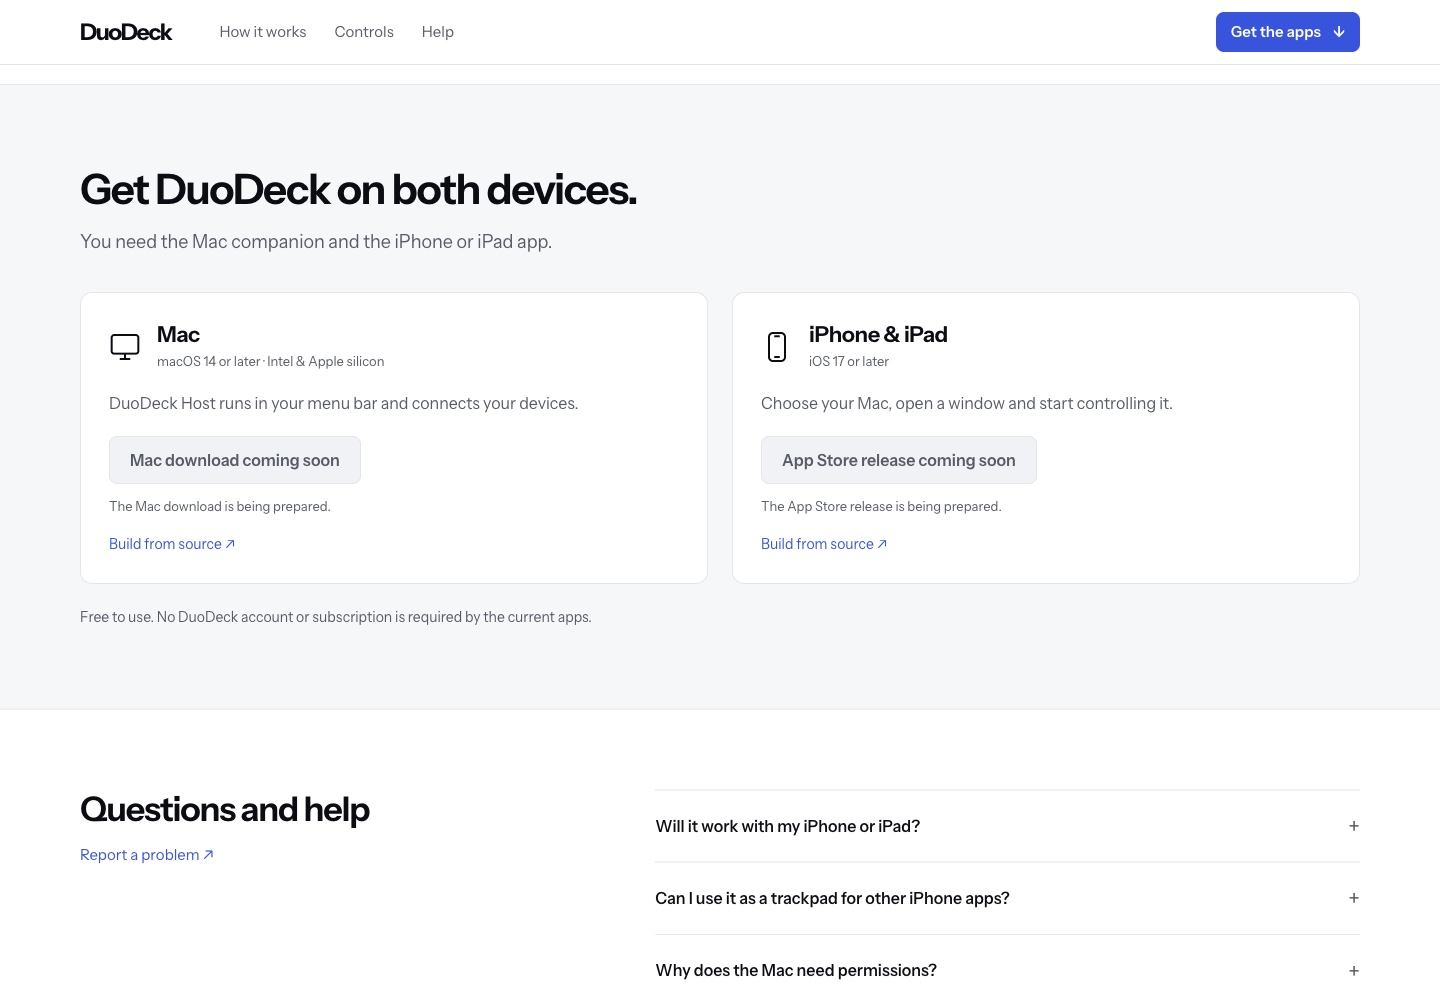
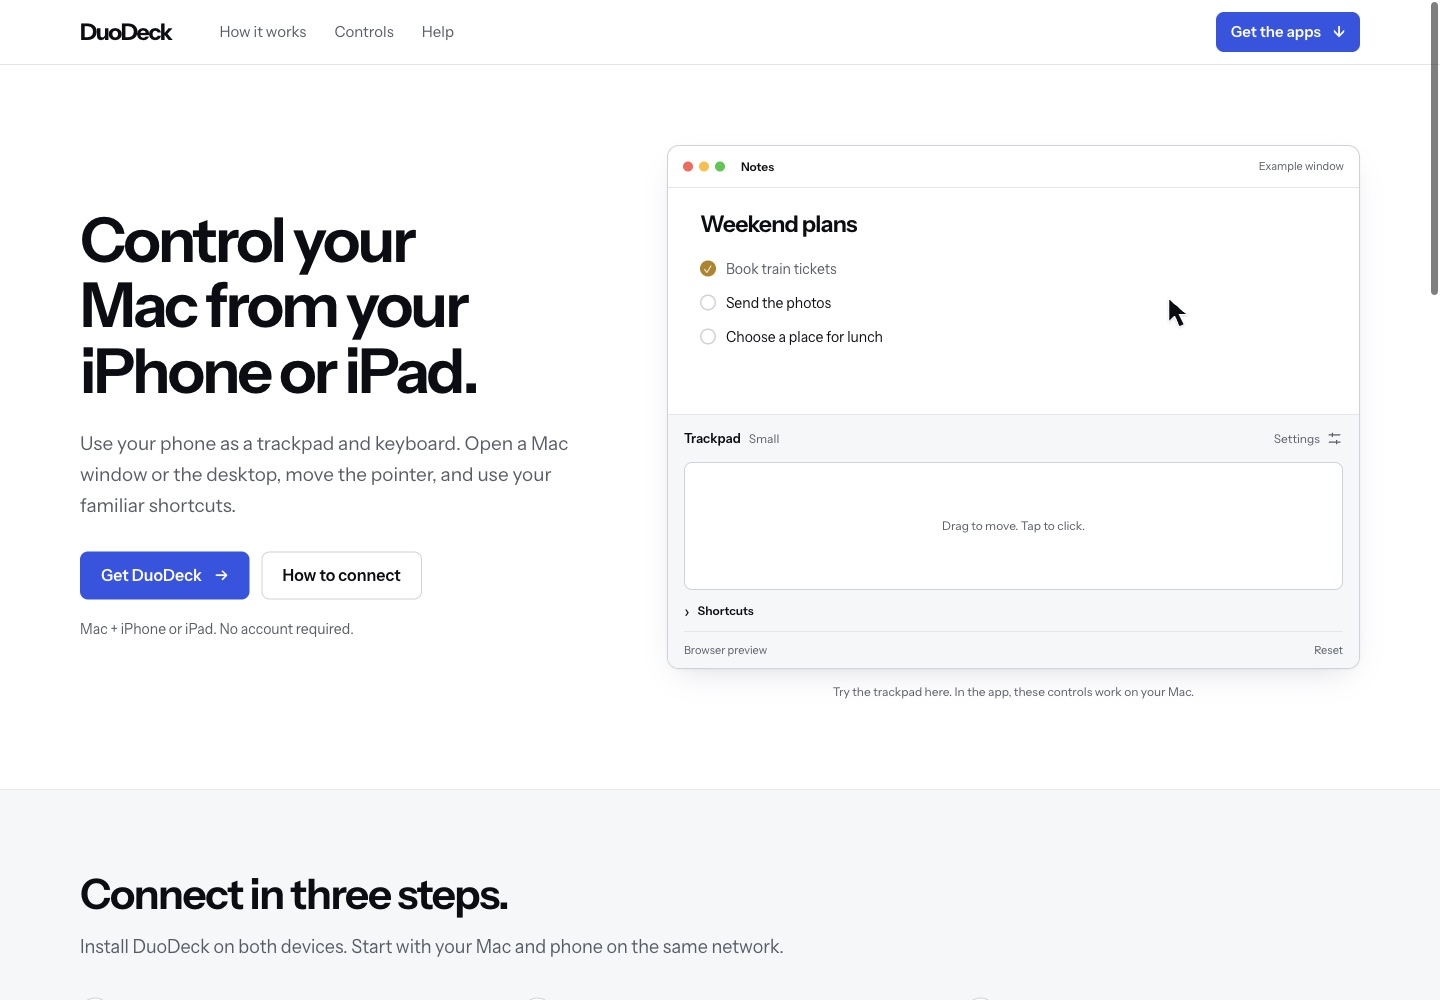
Record production redesign and verified native release candidates

diff --git a/docs/releases/1.1.0-verification.md b/docs/releases/1.1.0-verification.md
@@ -18,7 +18,7 @@ The design direction and reusable execution prompt are in [PRODUCT_BRIEF.md](../
 
 | Area | Evidence | Outcome |
 | --- | --- | --- |
-| Website | Existing Mac4 Chrome, actual rendered implementation | Desktop, 320px and 390px phone, 800px tablet and dark appearance inspected; no horizontal overflow |
+| Website | HTTPS health, actual production Chrome rendering and interaction | Redesign deployed at `2aff42d81bfe664d7613c97a338da487734db3b5`; desktop/mobile/dark production readback passes; 320/390/800px layouts inspected without horizontal overflow |
 | Browser controls | Actual pointer and keyboard input | Drag/tap checklist interaction, keyboard pointer movement, size/speed persistence, shortcut groups, reset and dialog focus restoration pass |
 | Web checks | Root `npm run check` | 10 passed, 0 failed |
 | iOS checks | 11 affected existing pure suites and native UI navigation checks | Phone, ordinary iPad, large text, keyboard restoration and Small/Full sizing pass |
@@ -26,8 +26,10 @@ The design direction and reusable execution prompt are in [PRODUCT_BRIEF.md](../
 | Mac UI | Four groups, legacy routes, 14 light/dark window fit reports and final glyph render | Routes and content fit; final product compilation passes |
[1 lines of base64/hex data omitted]
 | iOS release archive/export | Xcode archive, signed export and binary/plist inspection | 1.1.0 build 2026110903; corrected branded permission and locked-session copy confirmed |
-| iOS store copy | Helm provider update readback | Clearer subtitle, description, keywords and promotional text saved to the existing en-US listing |
-| Store screenshots | Six normal-launch PNGs with exact provenance | Macs, Add Mac and setup help on iPhone and iPad; no debug fixture or simulated live stream |
+| iOS store copy | Helm update followed by independent native API readback | Subtitle, description, keywords, promotional text and review instructions match the canonical text exactly |
+| Store screenshots | Six normal-launch PNGs with exact provenance | Macs, Add Mac and setup help on iPhone and iPad; replacement upload is processing; no debug fixture or simulated live stream |
+| Mac release package | Developer ID signature, universal slices, version/SDK/icon inspection | 1.1.0 (2026110902), arm64 + x86_64, SDK27.0, minimum macOS14, Assets.car + ICNS |
+| Mac installation | Installed bundle version and running process | Final redesigned build installed and launched in `~/Applications/DuoDeck Host.app` |
 
[1 lines of base64/hex data omitted]
 
@@ -35,14 +37,16 @@ The exported build03 IPA SHA-256 is `032d9d6cb4b17ec3628c65cbe22d44b894254ce1912
 
 The second redesign supersedes the earlier iOS build 2026110902 and Mac build 2026110901. Those earlier candidates and their old notarization job are not proof of the new binary.
 
-The new iOS build upload is processing with Apple (upload record `baa56e48-04e3-40ce-976a-1a777d39af32`). The existing version and review draft are reused. Build selection, screenshot provider completion and normal App Review submission must be confirmed by subsequent native readback. The new Mac build is 2026110902 and needs its own notarization because its bytes changed.
+Native App Store Connect readback confirms build **2026110903**, ID `baa56e48-04e3-40ce-976a-1a777d39af32`, is **VALID**, **APP_STORE_ELIGIBLE**, unexpired, and selected on version `13d239d5-2eb9-4767-a9bd-f33780f4db97`. The existing draft `7d3098a7-0a91-49c0-afef-d867f8545bbd` remains **READY_FOR_REVIEW**, submittedDate null, with exactly the intended version item. No review submission attempt is recorded.
 
-The website is prepared for redeployment from these committed sources. The local rendered capture and provenance are in [screenshots](../screenshots/README.md); production health and rendered readback will establish the live revision.
[1 lines of base64/hex data omitted]
+
+The production website capture and provenance are in [screenshots](../screenshots/README.md). Its release download remains disabled while the Mac artifact is not public; the page refreshes availability while visible. App Store availability is not claimed before Apple approval and release.
 
 ## Device and review limits
 
 At the final build03 installation attempt, the intended paired iPhone was unavailable to CoreDevice (tunnel unavailable and device services not available). The installation did not succeed; the previously installed build02 is not evidence that build03 is on the physical phone. Final build03 simulator captures and navigation checks are separate evidence.
 
-Mac4's existing Keychain access prompt requires normal local approval; remote UI input was denied. Existing pairing keys were preserved. No end-to-end live Mac streaming verification is claimed. New UI fixtures remain QA evidence and are not uploaded as store screenshots.
+The actual installed Mac build opens its native Permissions page with Screen Recording and Accessibility still needing local macOS approval. Remote UI input is unavailable in this environment. Existing pairing keys were preserved. No end-to-end live Mac streaming verification is claimed. New UI fixtures remain QA evidence and are not uploaded as store screenshots.
 
 Publish the exact new Mac artifact only after Apple returns Accepted, its tickets are stapled and validated, Gatekeeper accepts it, and the public download bytes match the checksum. Then submit the existing iOS review draft and confirm its submitted date and state. A ready draft is not a sent review request, and submission is not approval or public availability.

diff --git a/docs/duodeck-app-store-release.md b/docs/duodeck-app-store-release.md
@@ -6,19 +6,24 @@ App ID **6832548998**, bundle **com.agentsai.duodeck**, team **U549N38BV6**, SKU
 
 ## Current candidate — 9 November 2026
 
-The simpler second redesign remains version **1.1.0**. This is a local preparation record, not evidence of upload, submission, approval or public availability.
+The simpler second redesign is version **1.1.0**. These states were read from the providers on 9 November 2026; they do not establish public App Store availability.
 
-| Component | Candidate | State at this copy update |
+| Component | Candidate | Verified state |
 | --- | --- | --- |
-| iOS | 1.1.0 (2026110903) | New source candidate; final build, installation, upload and provider validation pending |
-| Mac companion | 1.1.0 (2026110902) | New source candidate; final build, signing, notarization and publication pending |
-| App Store listing | docs/duodeck-app-store.md | New local copy prepared; the corresponding provider update is still required |
-| Store screenshots | Genuine captures of iOS build 2026110903 | Required before final submission; the earlier build02 images describe the previous design |
-| Public iOS release | App ID 6832548998 | Unpublished; no review submission has been established for this redesign |
+| iOS | 1.1.0 (2026110903) | Archive/export succeeded; uploaded, VALID, APP_STORE_ELIGIBLE and selected on the existing version |
+| Mac companion | 1.1.0 (2026110902) | Signed universal package; installed and running; new notarization In Progress |
+| App Store listing | docs/duodeck-app-store.md | New listing copy and review instructions saved; independent native readback matches the canonical text |
+| Store screenshots | Six genuine build03 captures | Normal Macs, Add Mac and setup scenes captured on both families; provider replacement processing |
+| Review draft | 7d3098a7-0a91-49c0-afef-d867f8545bbd | READY_FOR_REVIEW, submittedDate null; no submission attempt |
+| Website | duodeck.megawebs.com | Redesigned production source `2aff42d81bfe664d7613c97a338da487734db3b5` confirmed by health and rendered browser checks |
 
-The earlier iOS build **2026110902** was uploaded and processed for the previous design. It is superseded as the intended release candidate by **2026110903**. Its screenshots and provider selections must not be treated as verification of the new candidate. Earlier Mac notarization covers its exact earlier artifact; it cannot establish approval of the redesigned Mac build.
[1 lines of base64/hex data omitted]
 
-The existing review draft **7d3098a7-0a91-49c0-afef-d867f8545bbd** was last verified as **READY_FOR_REVIEW**, with submittedDate null, against the previous build. The version record is **13d239d5-2eb9-4767-a9bd-f33780f4db97**. Reuse and inspect the existing draft; do not create a duplicate. Select the processed build03, replace the prior screenshots with genuine current captures, update the listing and review instructions, then revalidate the exact version, build and draft before submission. These are remaining steps, not completed provider actions.
[1 lines of base64/hex data omitted]
+
+The intended physical iPhone was unavailable to CoreDevice at the build03 installation attempt. Build03 was not installed on that phone. The installed Mac opens its native Permissions page and requires local Screen Recording and Accessibility approval. Simulator/UI checks and a running Mac process are not a live-stream verification.
+
+The one-shot release continuation is prepared to resume this exact notarization job and checksum. It publishes the verified Mac artifact after Apple acceptance and then submits the existing iOS review draft only after the selected build and new screenshot set pass native readback. No new draft or recurring agent is needed.
 
 ## Required companion and product scope
 

diff --git a/docs/screenshots/README.md b/docs/screenshots/README.md
@@ -1,11 +1,11 @@
 # DuoDeck website preview
 
-`website.jpg` is a JPEG export of the redesigned local website rendered in the existing Mac4 Chrome session on 9 November 2026. It captures the actual implementation at 1440 × 1000 pixels, before production redeployment. It replaces the earlier teal, folded-device illustration.
+`website.jpg` is a JPEG export of the production website at https://duodeck.megawebs.com/, rendered in the existing Mac4 Chrome session on 9 November 2026. It captures deployment `2aff42d81bfe664d7613c97a338da487734db3b5` at 1440 × 1000 pixels. It replaces the earlier teal, folded-device illustration.
 
 The Notes window is explicitly labeled as an example and the interactive controls are labeled Browser preview. This is not a live Mac streaming session. Pointer drag/tap, keyboard control, checklist hit testing, settings persistence, shortcut groups, reset and focus restoration were exercised separately in the browser.
 
 The page was also rendered at 320px, 390px and 800px widths and in dark appearance. Mobile settings and download sections were visually inspected without horizontal overflow.
 
[2 lines of base64/hex data omitted]
 - Native store screenshots and exact capture provenance: `store/screenshots/ios/en-US`.
 - Deployment and release evidence: `docs/releases/1.1.0-verification.md`.
